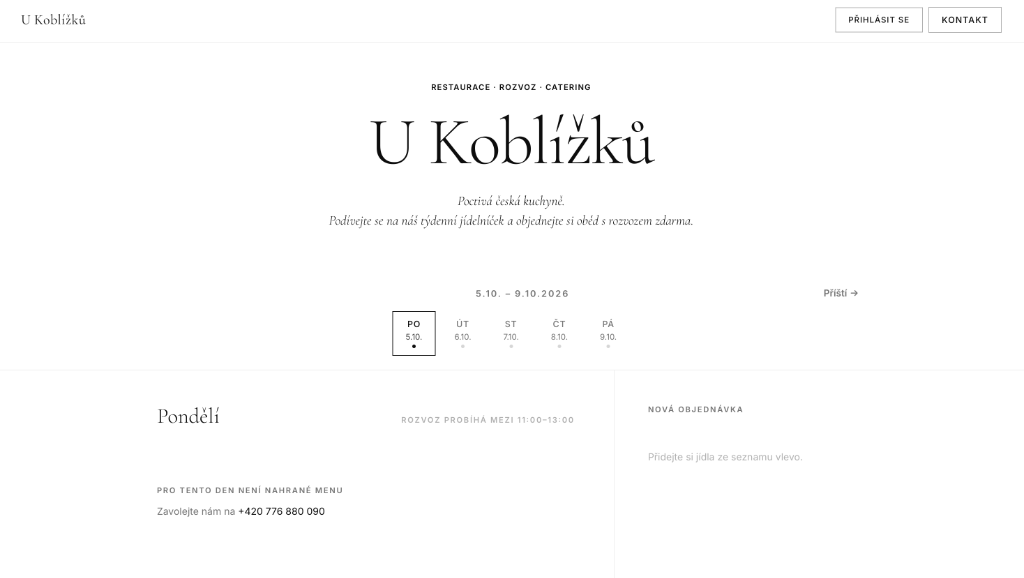
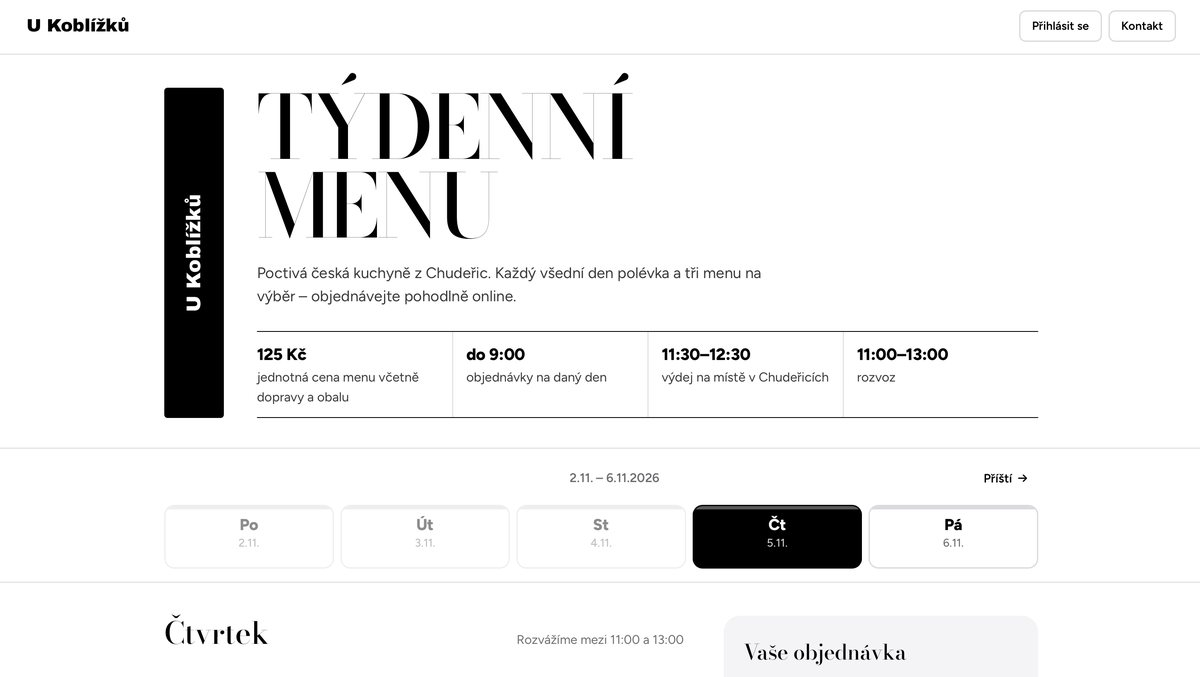
Nový náhled webu U Koblížků
Claude-Session: https://claude.ai/code/session_01HGQbSpJAW7ZT12heiCtdtd

diff --git a/index.html b/index.html
@@ -612,7 +612,7 @@
           </figure>
           <figure class="frame frame-b">
             <div class="frame-bar" aria-hidden="true"><i></i><i></i><i></i><span>ukoblizku.cz</span></div>
-            <img src="obrazky/ukoblizku.jpg" width="1024" height="578" alt="Web restaurace U Koblížků s objednávkou obědů s rozvozem">
+            <img src="obrazky/ukoblizku.jpg?v=20261105" width="1200" height="677" alt="Web restaurace U Koblížků s objednávkou obědů s rozvozem">
           </figure>
           <span class="sticker"><i class="ph ph-seal-check"></i>Skutečné weby klientů</span>
         </div>
@@ -733,7 +733,7 @@
         </div>
         <div class="work">
           <a class="case rv" href="https://ukoblizku.cz" target="_blank" rel="noopener">
-            <div class="case-img"><img src="obrazky/ukoblizku.jpg" width="1024" height="578" loading="lazy" alt="Web restaurace U Koblížků s jídelníčkem a objednávkou obědů"></div>
+            <div class="case-img"><img src="obrazky/ukoblizku.jpg?v=20261105" width="1200" height="677" loading="lazy" alt="Web restaurace U Koblížků s jídelníčkem a objednávkou obědů"></div>
             <div class="case-body">
               <div>
                 <span class="case-meta">2026 · restaurace · objednávkový systém</span>
